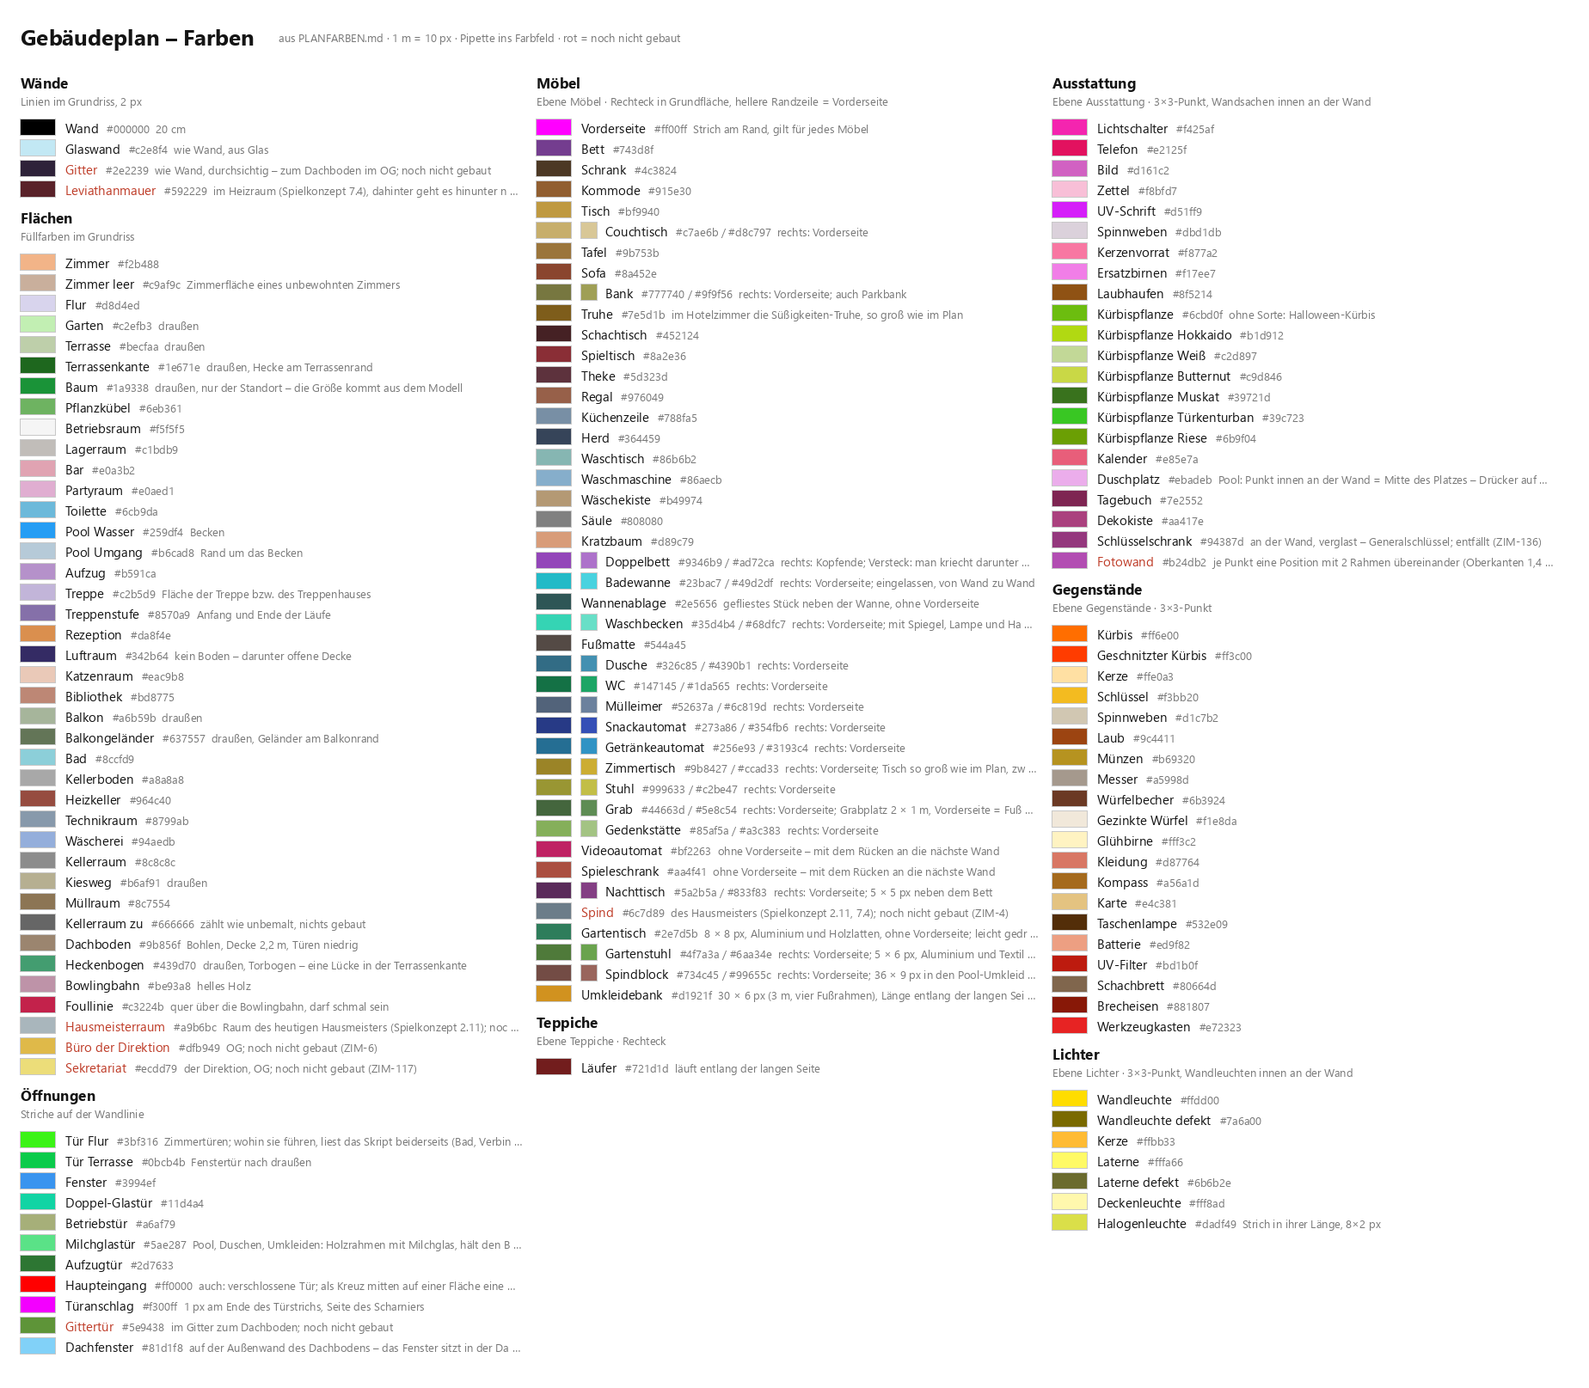
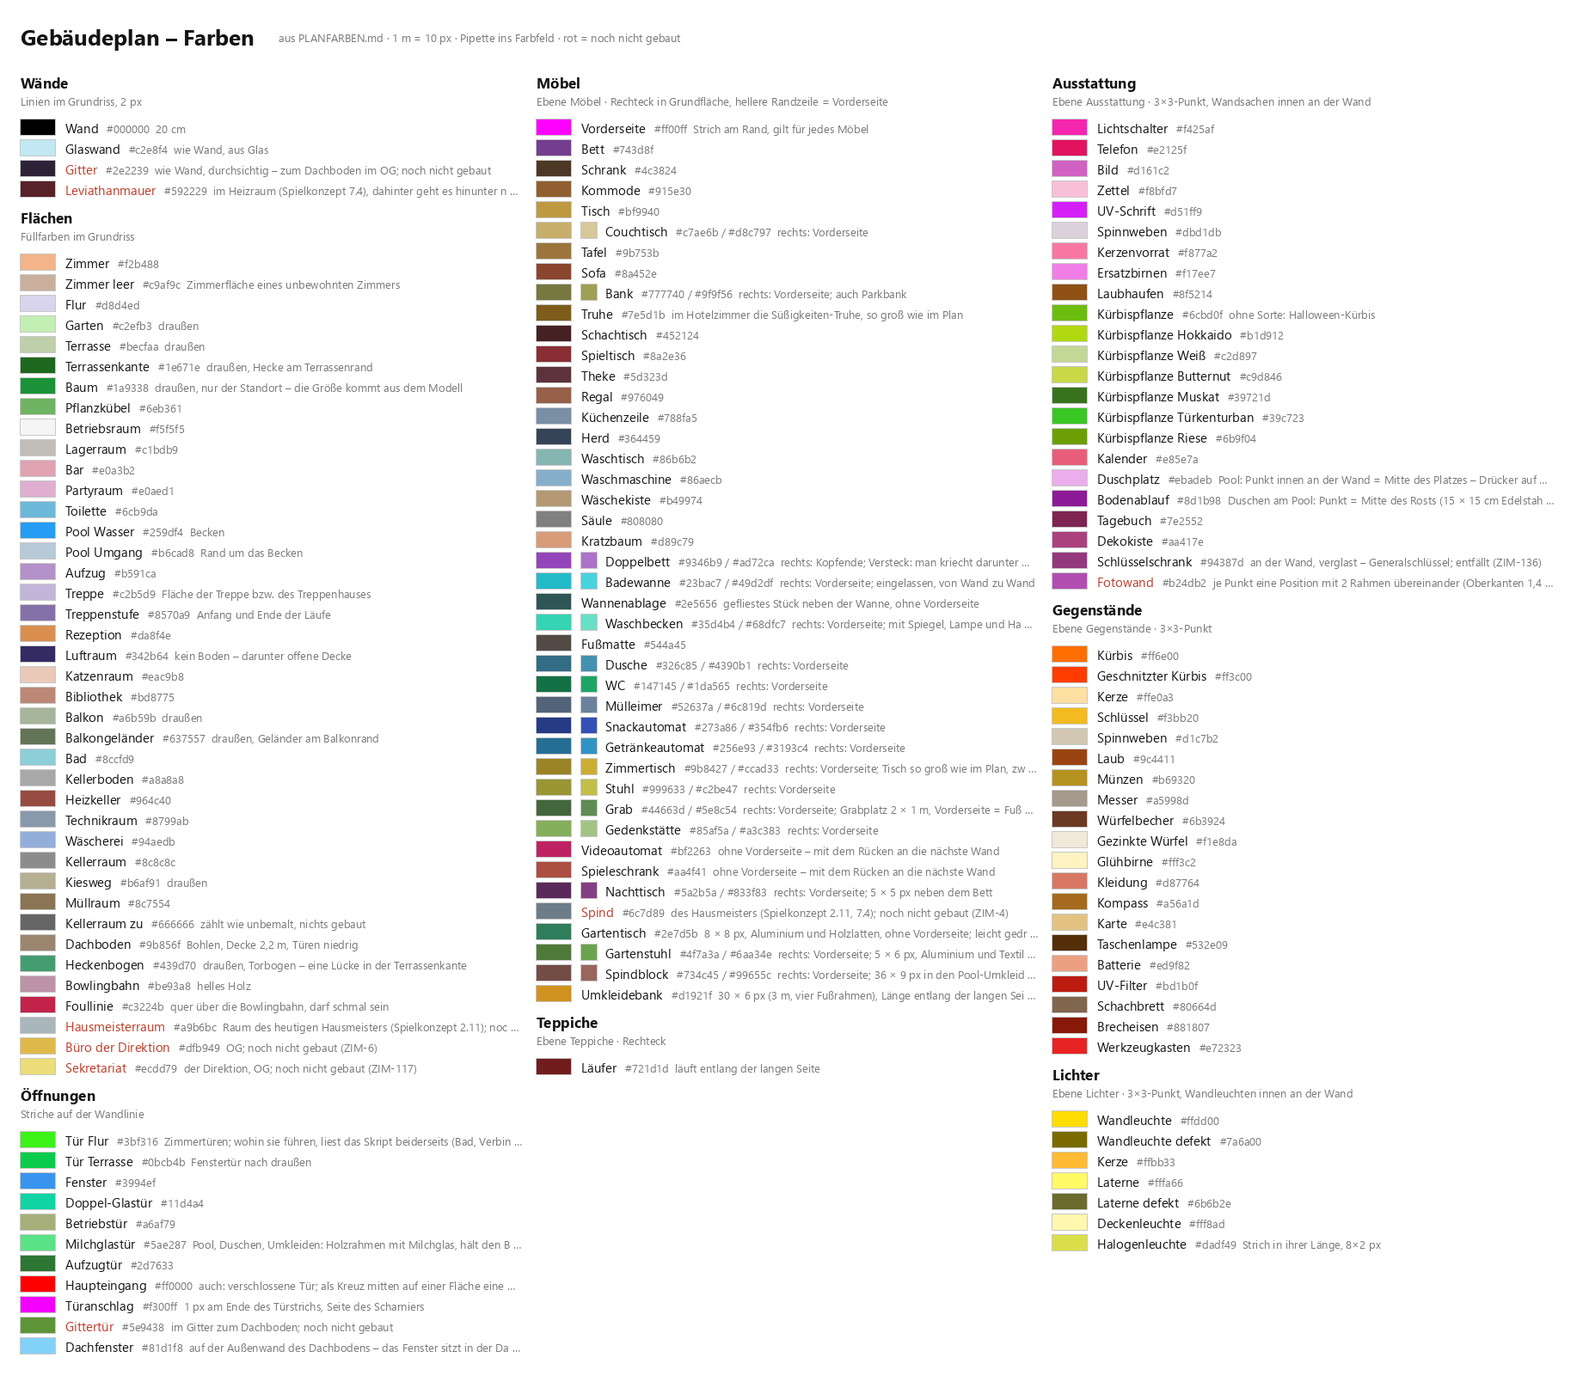
ZIM-144: Wasser auf Knopfdruck und Bodenablauf in den Pool-Duschen. Duschknopf (Interaktion) lässt 25 s Wasser laufen (Selbstschluss, nochmal drücken verlängert): Strahl aus der Düsenplatte (rain_streak), nach ein paar Sekunden dünner Dampf, Rauschen über SynthAudio.pool_shower (mischt sich mit der 

Changed region(s): [[0.6477, 0.3406, 0.9562, 0.8978]]

diff --git a/tools/build_map.py b/tools/build_map.py
@@ -143,6 +143,7 @@ FITTINGS = {
 	"Ausstattung: Schlüsselschrank": "key_cabinet",   # 24.10.: verglast, mit dem Generalschlüssel (6.19)
 	"Ausstattung: Dartscheibe": "dartboard",   # 25.10.: an der Wand, Linie und Stehtisch davor (6.10)
 	"Ausstattung: Duschplatz": "pool_shower",   # 1.11.: Drücker, Ablage und Duschkopf an der Wand (ZIM-144)
+	"Ausstattung: Bodenablauf": "floor_drain",   # 1.11.: Edelstahlrost im Boden der Duschen am Pool (ZIM-144)
 }
 ## Teppiche → Art (LevelBuilder.RUG_TEXTURES)
 RUGS = {"Teppich: Läufer": "runner"}

diff --git a/tools/plan_recolor.py b/tools/plan_recolor.py
@@ -91,6 +91,7 @@ DESIGN = {
 	 "Ausstattung: Spinnweben": (300, 12, 84),
 	"Ausstattung: Dekokiste": (325, 45, 46), "Ausstattung: Kerzenvorrat": (340, 90, 72),
 	"Ausstattung: Ersatzbirnen": (305, 80, 72), "Ausstattung: Duschplatz": (300, 60, 80),
+	"Ausstattung: Bodenablauf": (295, 70, 35),
 	# Ausstattung · Garten (gelbgrün)
 	"Ausstattung: Kürbispflanze": (88, 85, 40), "Ausstattung: Kürbispflanze Hokkaido": (72, 85, 46),
 	"Ausstattung: Kürbispflanze Weiß": (80, 45, 72), "Ausstattung: Kürbispflanze Butternut": (66, 65, 56),

diff --git a/README.md b/README.md
@@ -81,7 +81,7 @@ Standardbelegung – umbelegen in den Einstellungen unter „Steuerung“ (fest 
   **Bäder:** dunkle Schieferfliesen bis 2 m und am Boden, gefliester Waschtisch mit Aufsatzbecken, Wandarmatur und Spiegel mit Spiegelbild, darüber eine
   Spiegelleuchte (Edelstahl wie die Armatur, warmweißes Lichtband, schaltet mit dem Zimmer), Duschecke mit Glastür und
   Duschsäule auf gefliestem Sockel, Wand-WC mit Drückerplatte und Papierhalter (darauf setzen wie bisher) – die Fliesen
-  laufen über Waschtisch und Sockel durch; in den Toiletten ein langer Waschtisch mit zwei Becken und Spiegeln · Kopfsteinwege im Garten, Außenwände aus Bruchstein · im Garten wächst verwildertes Gras, das sich im Wind wiegt und unter Schritten und Gegenständen zur Seite neigt · Müllraum im Keller · **Heizkeller:** alter Kohlekessel mit offener Feuerklappe – Flammen über der Glut, es knistert, und die Glut wirft einen orangeroten Lichtkegel auf den Boden (in ihrem Schein hält das Monster etwas Abstand); rostige Kupferrohre laufen als Ring unter der Decke an allen Wänden, mit Abzweigen hinab · im Obergeschoss sind alle Zimmer offen · **Lobby** mit Rezeption (Holz mit runden Ecken, Terrazzoplatte wie die Säulen, Messingrohre), verriegeltem Haupteingang, Luftraum und **Galerie** (breite Treppe mit Läufer und gedrechseltem Geländer hinauf) · **Aufzug** vom Untergeschoss bis ins Obergeschoss: Teleskoptüren in einem Holzportal, darüber die Lampenanzeige „U 0 1“, daneben der Rufknopf; die Kabine fährt wirklich (Holzwände, drei Messinghandläufe, Spiegel mit echtem Spiegelbild, Deckenleuchte, Bedienfeld mit Etagen-, Tür- und Alarmknopf), Motor und Glocke locken das Monster, der Alarm schreckt Gäste auf · der zweite Aufzug ist tot – seine Anzeige wandert trotzdem manchmal · **Zimmertüren** aus dunklem Nussbaum mit vier Kassetten in gestuftem Holzrahmen, Messingbeschläge (Drücker auf Langschild, zwei Bänder), zum Flur hin Türspion und darüber eine verschraubte, gebürstete Messingplakette mit Kordelrand und polierten Ziffern (Schilder über den Türen gibt es keine) · **Dachgeschoss mit Dachboden:** aus dem Obergeschoss eine steile Treppe im Treppenhaus West hinauf zur verschlossenen **Kniestocktür** (Bretter, Langbänder, Kastenschloss); dahinter ein Gewirr aus Kammern mit groben Bohlen an Boden, Wänden und 2,2 m hoher Decke, Türen so hoch wie im übrigen Hotel (zwei dicht unter der Schräge nur geduckt), in jeder Kammer ein Stützbalken mit Balkenkreuz und Kopfbändern, an den Außenwänden Dachschrägen mit Holzkreuz-Fenstern, durch die kaltes Licht fällt, blaugrauer, flimmernder Staubnebel, Kisten mit wertvollerer alter Deko und irgendwo der Kopf des Kürbismanns · blitzt es, während du in einer der Kammern stehst, dreht dich der Spuk manchmal um 90° – danach kichert es (abschaltbar über „Flackern abschwächen“) · **Bar + Spiele**, **Partyraum** über zwei Stockwerke mit Galerie, Toiletten · **Ostflügel** mit 69 Zimmern (001–049) um zwei Innenhöfe mit Bäumen (sie verlieren Herbstlaub, das kurz im Gras liegen bleibt) und Terrassen hinter 1,6 m hohen Formschnitthecken (nur durch die Gartentür des Zimmers zu erreichen) · **Westflügel**: Flure, Innenhöfe, Küche, Speisesaal, Lager und Kühlräume offen, die Zimmer (051–099) noch verschlossen · großer Mittelgarten mit acht Kürbisfeldern (je eine Sorte, über 60 Pflanzen) und vier Bäumen, auch im Innenhof Südwest ein Baum · Hallenbad mit Duschen und Umkleiden (Einstiegstreppen, vier Unterwasserlampen, die jede für sich langsam durch den Regenbogen wechseln; das Wasser schlägt Wellen, wenn man hindurchgeht, und spritzt, wenn man hineinfällt · naht das Monster, wird es spiegelglatt, dann zittert es, und ist es in der Halle, schwappt das Becken) · **Umkleiden und Duschen am Pool:** wie die Bäder dunkle Schieferfliesen bis 2 m und am Boden, darüber und an der Decke gestrichen; je zwei Spindblöcke einander gegenüber (Sitzsockel, 12 Spinde mit Holzdekor, Regal) und dazwischen eine lange Lattenbank · in den Duschen Duschplätze aus gebürstetem Edelstahl: Drücker mit runder Wandmanschette, Ablage daneben, darüber ein großer runder Duschkopf am Wandarm · in Umkleiden und Duschen gibt es keine Lichtschalter: das Licht brennt immer (nur ein Stromausfall löscht es), die Birnen sind fest verbaut · die Spinde sind nummeriert (Hinweis beim Ansehen), die meisten bleiben zu, einige gehen auf, manche nur mit Schlüssel – beim ersten Öffnen liegt manchmal etwas darin · **Milchglastüren** (eigene Planfarbe, im Plan noch zu setzen): Rahmen im Holz der Zimmertüren mit Messingdrücker, dazwischen satiniertes Glas – Licht und Umrisse kommen durch, der Blick nicht · **Obergeschoss:** Zimmer mit 2–3 Betten, manche mit Bad und Balkon, Suiten über Verbindungstüren, Bibliothek, **Katzenraum** · **Treppenhaus Ost** vom Untergeschoss bis ins Obergeschoss · **Untergeschoss:** graue Kellergänge unter kaltweißen Halogenleuchten, die ab und zu kurz flackern, Heizkeller (Versteck des Monsters), Technikraum, Wäscherei mit Waschmaschinen, sonst verschlossene Räume · nur zwölf Lampen um die Kamera werfen Schatten (`ShadowBudget`)
+  laufen über Waschtisch und Sockel durch; in den Toiletten ein langer Waschtisch mit zwei Becken und Spiegeln · Kopfsteinwege im Garten, Außenwände aus Bruchstein · im Garten wächst verwildertes Gras, das sich im Wind wiegt und unter Schritten und Gegenständen zur Seite neigt · Müllraum im Keller · **Heizkeller:** alter Kohlekessel mit offener Feuerklappe – Flammen über der Glut, es knistert, und die Glut wirft einen orangeroten Lichtkegel auf den Boden (in ihrem Schein hält das Monster etwas Abstand); rostige Kupferrohre laufen als Ring unter der Decke an allen Wänden, mit Abzweigen hinab · im Obergeschoss sind alle Zimmer offen · **Lobby** mit Rezeption (Holz mit runden Ecken, Terrazzoplatte wie die Säulen, Messingrohre), verriegeltem Haupteingang, Luftraum und **Galerie** (breite Treppe mit Läufer und gedrechseltem Geländer hinauf) · **Aufzug** vom Untergeschoss bis ins Obergeschoss: Teleskoptüren in einem Holzportal, darüber die Lampenanzeige „U 0 1“, daneben der Rufknopf; die Kabine fährt wirklich (Holzwände, drei Messinghandläufe, Spiegel mit echtem Spiegelbild, Deckenleuchte, Bedienfeld mit Etagen-, Tür- und Alarmknopf), Motor und Glocke locken das Monster, der Alarm schreckt Gäste auf · der zweite Aufzug ist tot – seine Anzeige wandert trotzdem manchmal · **Zimmertüren** aus dunklem Nussbaum mit vier Kassetten in gestuftem Holzrahmen, Messingbeschläge (Drücker auf Langschild, zwei Bänder), zum Flur hin Türspion und darüber eine verschraubte, gebürstete Messingplakette mit Kordelrand und polierten Ziffern (Schilder über den Türen gibt es keine) · **Dachgeschoss mit Dachboden:** aus dem Obergeschoss eine steile Treppe im Treppenhaus West hinauf zur verschlossenen **Kniestocktür** (Bretter, Langbänder, Kastenschloss); dahinter ein Gewirr aus Kammern mit groben Bohlen an Boden, Wänden und 2,2 m hoher Decke, Türen so hoch wie im übrigen Hotel (zwei dicht unter der Schräge nur geduckt), in jeder Kammer ein Stützbalken mit Balkenkreuz und Kopfbändern, an den Außenwänden Dachschrägen mit Holzkreuz-Fenstern, durch die kaltes Licht fällt, blaugrauer, flimmernder Staubnebel, Kisten mit wertvollerer alter Deko und irgendwo der Kopf des Kürbismanns · blitzt es, während du in einer der Kammern stehst, dreht dich der Spuk manchmal um 90° – danach kichert es (abschaltbar über „Flackern abschwächen“) · **Bar + Spiele**, **Partyraum** über zwei Stockwerke mit Galerie, Toiletten · **Ostflügel** mit 69 Zimmern (001–049) um zwei Innenhöfe mit Bäumen (sie verlieren Herbstlaub, das kurz im Gras liegen bleibt) und Terrassen hinter 1,6 m hohen Formschnitthecken (nur durch die Gartentür des Zimmers zu erreichen) · **Westflügel**: Flure, Innenhöfe, Küche, Speisesaal, Lager und Kühlräume offen, die Zimmer (051–099) noch verschlossen · großer Mittelgarten mit acht Kürbisfeldern (je eine Sorte, über 60 Pflanzen) und vier Bäumen, auch im Innenhof Südwest ein Baum · Hallenbad mit Duschen und Umkleiden (Einstiegstreppen, vier Unterwasserlampen, die jede für sich langsam durch den Regenbogen wechseln; das Wasser schlägt Wellen, wenn man hindurchgeht, und spritzt, wenn man hineinfällt · naht das Monster, wird es spiegelglatt, dann zittert es, und ist es in der Halle, schwappt das Becken) · **Umkleiden und Duschen am Pool:** wie die Bäder dunkle Schieferfliesen bis 2 m und am Boden, darüber und an der Decke gestrichen; je zwei Spindblöcke einander gegenüber (Sitzsockel, 12 Spinde mit Holzdekor, Regal) und dazwischen eine lange Lattenbank · in den Duschen Duschplätze aus gebürstetem Edelstahl: Drücker mit runder Wandmanschette, Ablage daneben, darüber ein großer runder Duschkopf am Wandarm – ein Druck auf den Knopf lässt 25 s Wasser laufen, mit Dampf und Rauschen (das Monster hört es), in der Raummitte ein Edelstahl-Bodenablauf · in Umkleiden und Duschen gibt es keine Lichtschalter: das Licht brennt immer (nur ein Stromausfall löscht es), die Birnen sind fest verbaut · die Spinde sind nummeriert (Hinweis beim Ansehen), die meisten bleiben zu, einige gehen auf, manche nur mit Schlüssel – beim ersten Öffnen liegt manchmal etwas darin · **Milchglastüren** (eigene Planfarbe, im Plan noch zu setzen): Rahmen im Holz der Zimmertüren mit Messingdrücker, dazwischen satiniertes Glas – Licht und Umrisse kommen durch, der Blick nicht · **Obergeschoss:** Zimmer mit 2–3 Betten, manche mit Bad und Balkon, Suiten über Verbindungstüren, Bibliothek, **Katzenraum** · **Treppenhaus Ost** vom Untergeschoss bis ins Obergeschoss · **Untergeschoss:** graue Kellergänge unter kaltweißen Halogenleuchten, die ab und zu kurz flackern, Heizkeller (Versteck des Monsters), Technikraum, Wäscherei mit Waschmaschinen, sonst verschlossene Räume · nur zwölf Lampen um die Kamera werfen Schatten (`ShadowBudget`)
 - **Hände & Tasche:** ein Gegenstand in der Hand; große Dinge (Kürbisse, Deko) brauchen beide Hände und blockieren Türen/Truhen; Münzen werden zu Geld · **Tasche für Kleines** mit 6 Fächern: Süßigkeiten, Getränkedosen, Zierkürbisse, Messer, Batterien, Glühbirnen, UV-Aufsatz, Würfel, Streichholzschachtel, Dartpfeile, Salz, Eier und Kerzen, die nicht brennen – mit voller Hand wandern sie beim Aufheben gleich hinein, unten rechts zeigen kleine Fächer mit Bildern, was drin ist · Q halten zeigt die Tasche groß – wer etwas herausnimmt, lässt fallen, was er in der Hand hatte (auch einen Kürbis) · Süßes oder Saures, Schenken und Verkaufen gehen auch aus der Tasche · **Ausnahme am Körper:** Kompass, Kartenblätter und Schlüsselbund – Karte und Kompass holt die linke Hand hervor (nicht mit einem Kürbis in den Händen)
 - **Salz:** drei Packungen auf der Küchenzeile, je vier Linien · Packung in der Hand, Tür oder Außenfenster ansehen, Linksklick streut eine Linie über die Schwelle bzw. auf die Fensterbank · eine heile Linie schützt das ganze Zimmer: Der Lakengeist kommt ans Glas, aber nicht herein – auch nicht zu einem Gast, vor dessen Tür du streust · nach zwei Abweisungen wird das Salz grau · wer über die Schwelle geht, verwischt es (geduckt steigst du darüber) · das Monster zögert davor drei Sekunden und geht dann hindurch
 - **Vorzeichen und Spuk** (meist erst nach dem ersten Angriff): **Krähen** im Garten fliegen auf, wenn du ihnen nahe kommst (Lärm), merken sich, wer nach ihnen wirft (sie krächzen dich an), und tragen Glänzendes, das draußen liegt (Münzen, Schlüssel, Messer, Kompass), in ihr **Nest** im großen Baum gegenüber von Zimmer 042 – es glitzert in der Krone; ein Wurf hinein holt ein Stück heraus, aber sie nehmen es übel · **Füttern:** Brotkrumen (Küche) oder Kürbiskerne auf den Tisch im Gärtchen von Zimmer 13 legen (der Tisch fehlt noch im Plan) – nach ein paar Stunden ist das Futter weg, und wenn sie dich mögen, liegt dort ein Geschenk: Münzen, Gestohlenes und irgendwann ein alter Messingschlüssel · **Ratten** im Untergeschoss rennen quiekend davon, bevor das Monster kommt · **Motten** an den Lampen · ein **Hund** heult ab und zu hinter dem Wald · eine **schwarze Katze**, die es nicht gibt, führt dich nachts unten zum Kessel · Familien Verstorbener **verhängen die Spiegel**, und manchmal steht im Spiegel jemand hinter dir · bei Gewitter selten ein **Stromausfall** – die Sicherung liegt im Untergeschoss · einmal im Spiel der **Albtraum von 1987** im Heizkeller · eine **Vogelscheuche** rückt jeden Morgen näher an die Lobby · beim Süßes oder Saures steht manchmal **ein Kind zu viel** vor der Tür
@@ -419,7 +419,7 @@ Nach `--` an Godot übergeben, z. B. `--path . -- --trace --warn`. Alle Aktionen
 | `--maske[=id]` | Verbotene Masken (Spielkonzept 5.19): vor die Haken in Zimmer 13, Blick darauf · `id` (`pumpkin`, `doll`): diese Maske gleich aufgesetzt (Kürbismann: Spaßschwelle 10 statt 60, du bist sein Ziel · Puppe: nächstes Urteil auf Zimmer 13) |
 | `--drunk=n[,gast]` | n Gläser getrunken – du, oder mit Gast er (ab 2 angetrunken, ab 3 betrunken) |
 | `--spinne[=gesicht\|schublade]` | Spinnen (Spielkonzept 4.23): acht krabbeln sofort 1,5–4 m vor dir (im Keller gut mit `--tp=keller --flashlight`) · `gesicht`: eine springt dir ins Gesicht – Maus schnell hin und her schüttelt sie ab, sonst beißt sie · `schublade`: du stehst vor der nächsten Kommode, nach 1 s ziehst du eine Schublade auf und es springt eine heraus · `gesicht` und `schublade`: der erste Angriff gilt als geschehen (mit `--trace`: `[Spinnen] …`) |
-| `--duschen` | vor den ersten Duschplatz am Pool (Dusche West; Drücker, Ablage, Duschkopf; ZIM-144) |
+| `--duschen[=an]` | vor den ersten Duschplatz am Pool (Dusche West; Drücker, Ablage, Duschkopf; ZIM-144) · `an`: das Wasser läuft (Strahl, Dampf, Rauschen) |
 | `--spinde[=offen]` | vor den ersten Spindblock der Pool-Umkleiden (Spinde 1–12, ZIM-145) · `offen`: alle Spinde, die aufgehen, stehen offen (auch die mit Schlüssel), ohne Fund |
 | `--fledermaus[=tag\|schwarm\|dachboden]` | Fledermäuse (Spielkonzept 4.22): du stehst im Garten vor einem Baum und siehst hinauf – 21 Uhr, sie kreisen · `tag`: 12 Uhr, sie hängen in der Krone · `schwarm`: wie `tag`, nach 3 s fliegen sie auf und ziehen über dich hinweg · `dachboden`: 12 Uhr auf dem Dachboden neben einem Pfosten, sie hängen unter dem Balkenkreuz – Taschenlampe an oder rennen scheucht sie auf (mit `--trace`: `[Fledermäuse] Schwarm fliegt auf …`) |
 | `--weather=klar\|regen\|gewitter\|blitz\|gestalt\|blut` | Wetter sofort in voller Stärke, Scheiben gleich nass (Spielkonzept 7.8) · `blitz`: Gewitter und nach 3 s ein Blitz (mit `--shot-on=lightning` als Screenshot) · `blut`: Blutregen (Seltenwetter; nach `--weather=blut --weather=klar` sind gleich nur die roten Reste zu sehen) · `gestalt`: dazu steht im Blitz eine Gestalt im Garten, du wirst notfalls hingedreht – draußen testen, z. B. `--pos=45,0.1,-37,180 --weather=gestalt --trace` (`--shot-on=figure`). Mond und Nebel folgen dem Tag: `--day=17` Neumond, `--day=31` Vollmond und dichter Nebel |

diff --git a/TECHNIK.md b/TECHNIK.md
@@ -636,7 +636,15 @@ vom Fingerabdruck abgelehnt, zu tun ist nichts.
     Ablage 24 × 11 cm rechts daneben (von vorn), Mitte auf Drückerhöhe, aus gerundeten Kästen (Rückenplatte, Boden,
     Rand), ohne Halterung. Duschkopf Ø 25 cm, Mitte 40 cm vor der Wand, Unterkante 2,10 m: Wandarm als Rohr mit Bogen
     (`_tube`), Rosette, Kugelgelenk, Düsenplatte mit `shower_shower_nozzles.png` der Zimmerdusche. Ohne Kollision
-    (zu hoch bzw. weniger tief als der Spielerradius), ohne Zustand; Gruppe `pool_showers`, Debug `--duschen`.
+    (zu hoch bzw. weniger tief als der Spielerradius) bis auf einen Körper um den Drücker (Ebene 4, `interactable`):
+    Druck → `RUN_TIME` 25 s Wasser (nicht gespeichert), Knopf geht 6 mm hinein. Strahl = `CPUParticles3D` aus Punkten
+    über der Düsenplatte mit `shaders/rain_streak.gdshader` (Lebenszeit = Fallzeit bis zum Boden), Dampf weiche
+    Ballen wie in `ShowerScare`, deren Deckkraft in `STEAM_WARMUP` wächst. Rauschen über `SynthAudio.pool_shower`
+    (lautester Platz aus `_sounds`, dumpf außerhalb des Raums), mischt sich mit `shower` der Zimmerdusche; Lärm
+    `shower_button` beim Drücken und `shower` alle 3 s. Gruppe `pool_showers`, Debug `--duschen[=an]`.
+    **Bodenablauf** (`floor_drain`) = `PoolShower.drain`: Edelstahlplatte 15 × 15 × 0,3 cm, darüber eine Fläche mit den
+    8 × 8 Löchern als Textur (zur Laufzeit erzeugt, durchsichtig außer den Löchern, mit Mipmaps). Im Becken auf dessen
+    Boden (`POOL_DEPTH`).
   - `_rugs`: Teppiche als flache Auflage (`Mat.layer_uv`). Ein Läufer läuft entlang der langen Seite
     (`Geo.runner_mesh`: Abschluss an beiden Enden, ganze Zahl Musterkacheln); Art → Textur in `RUG_TEXTURES`. Im
     Katzenraum lose Teppiche aus `CAT_ROOM_RUGS` (`TexGen.rug`), jeder etwas höher als der vorige (Überlappen ohne

diff --git a/SPIELKONZEPT.md b/SPIELKONZEPT.md
@@ -5298,8 +5298,12 @@ Dachform (4.21).
     Metallbalken aus dem Foto.
   - **Ablage** rechts daneben, 24 cm breit, ohne die Halterung darunter.
   - **Duschkopf** am Wandarm, Mitte 40 cm vor der Wand, Düsen als Textur wie in der Zimmerdusche.
-- Nur Ausstattung: Der Drücker tut noch nichts. *Offen:* Wasser auf Knopfdruck, Abfluss, Trennwände, Fliesen bis zur
-  Decke (ZIM-144).
+- **Wasser auf Knopfdruck:** Ein Druck lässt die Dusche 25 s laufen (Selbstschluss, nochmal drücken verlängert) –
+  Strahl aus der Düsenplatte, nach ein paar Sekunden ein dünner Dampfschleier, Rauschen wie die Zimmerdusche. Das
+  Wasser ist **Lärm** (Hörweite 7 m): Das Monster hört es, man kann es damit auch ablenken.
+- **Bodenablauf** (Foto 1.11.): Edelstahlrost 15 × 15 cm, Löcher als Textur; eigene Planfarbe, einer je Duschraum in
+  der Mitte. Ein Punkt im Becken liegt auf dessen Boden.
+- **Entschieden 1.11.:** Fliesen bleiben bei 2 m wie in den Bädern (nicht bis zur Decke), **keine Trennwände**.
 
 ## 8. Menüs, Speichern & Laden
 

diff --git a/PLANFARBEN.md b/PLANFARBEN.md
@@ -207,6 +207,7 @@ Ebene `Ausstattung`, 3×3-Punkt, Wandsachen innen an der Wand.
 | #6b9f04 | Kürbispflanze Riese | |
 | #e85e7a | Kalender | |
 | #ebadeb | Duschplatz | Pool: Punkt innen an der Wand = Mitte des Platzes – Drücker auf 1 m, Ablage rechts daneben, Duschkopf 40 cm vor der Wand (ZIM-144); je Duschraum drei im 1-m-Abstand |
+| #8d1b98 | Bodenablauf | Duschen am Pool: Punkt = Mitte des Rosts (15 × 15 cm Edelstahl), am besten in der Raummitte (ZIM-144) |
 | #7e2552 | Tagebuch | |
 | #aa417e | Dekokiste | |
 | #94387d | Schlüsselschrank | an der Wand, verglast – Generalschlüssel; entfällt (ZIM-136) |
